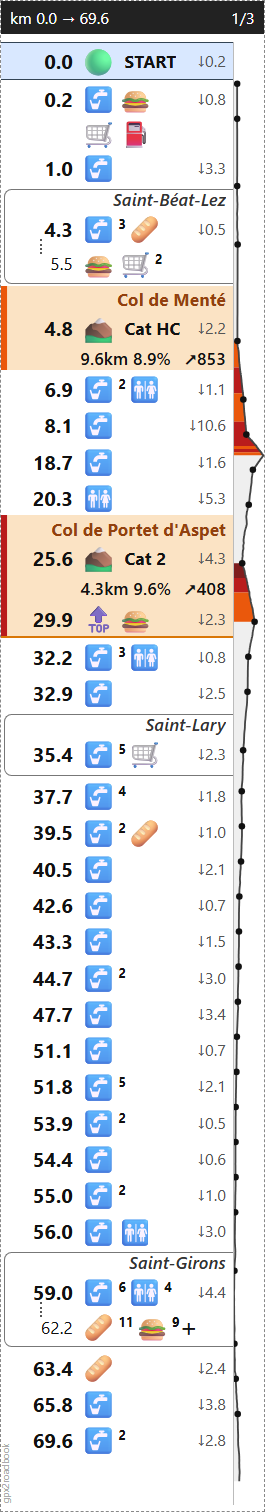
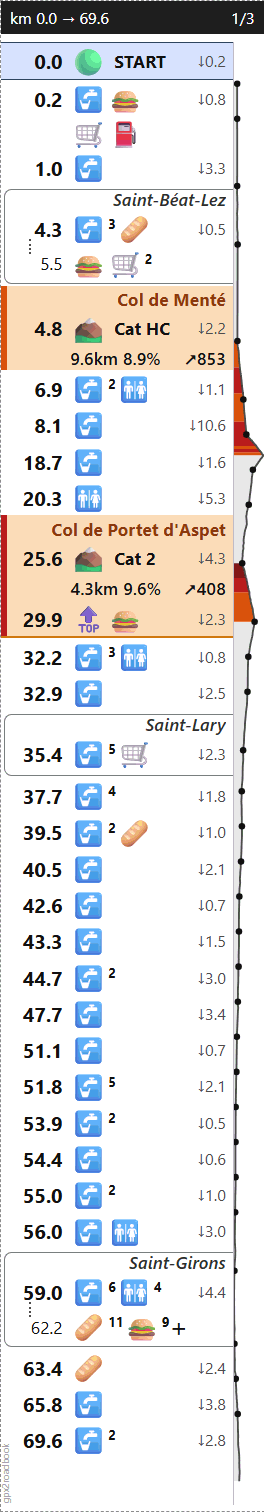
feat(render): fit the strips' km column to the route's longest km
The km column was 9.5 mm whatever the route, room for "1234.5": on a route
under 1000 km, 2.7 mm stood blank left of every km. It is now the row's
padding and the route's longest km, right-aligned, no wider: 8.15 mm for
100-999 km, 6.55 mm under 100 km, 9.75 mm from 1000 km. The emojis get
what it gives back (1.35 mm a row on a 300 km route), so crowded stops show
more of theirs.

Closes #130

diff --git a/tests/test_pipeline.py b/tests/test_pipeline.py
@@ -15,7 +15,7 @@ from roadbook.model import Climb, Glyph, Item, Poi, Roadbook, Stop, Track
 from roadbook.pois import classify, cluster, emoji_counts
 from roadbook.profile import Profile, turning_points
 from roadbook.render import _find_browser, render_html
-from roadbook.render.strips import COUNT_W, EMOJI_W, MAIN_H, SUB_H, RowLayout, _row, _wrap
+from roadbook.render.strips import COUNT_W, DIGIT_W, EMOJI_W, MAIN_H, SUB_H, RowLayout, _row, _wrap, km_col
 from roadbook.snap import Snapper
 
 SAMPLE = Path(__file__).parent.parent / "samples" / "paris_le_mans.gpx"
@@ -334,6 +334,29 @@ def test_gutter_follows_gutter_mm() -> None:
     assert html.count('<svg class="gutter"') == html.count('<div class="strip">') > 0
     cfg["render"]["gutter_mm"] = 0
     assert 'class="gutter"' not in render_html(book, Settings.of(cfg))
+
+
+def test_the_km_column_is_as_wide_as_the_route_s_longest_km() -> None:
+    assert km_col(306.2) - km_col(99.9) == pytest.approx(DIGIT_W)  # a digit more, a digit's width more
+    assert km_col(1234.5) - km_col(306.2) == pytest.approx(DIGIT_W)
+    assert km_col(999.96) == km_col(1000.0)  # as it is printed: "1000.0"
+    assert km_col(306.2) < 9.5  # the column every route had, whatever its length
+
+
+def _crowded(length_km: float) -> str:
+    """The emojis a crowded stop shows on the strip of a route `length_km` long, its "+" with them."""
+    cfg = load_config()
+    cfg["render"]["emoji_lines"] = 1
+    stop = Item("stop", 10.0, 0, emojis=[Glyph(e) for e in "🚰🚻🥖🍔🛒"], dist_to_next=1.0)
+    items = [Item("start", 0, 0, dist_to_next=10.0), stop, Item("finish", length_km, 0)]
+    html = render_html(Roadbook("t", length_km, 0, 0, items, [], [], 0, 0), Settings.of(cfg))
+    assert f"--km-col: {km_col(length_km)}mm" in html
+    return re.findall(r'<span class="emo">([^<]*)</span>', html)[1]
+
+
+def test_the_room_a_short_route_s_km_leave_goes_to_the_emojis() -> None:
+    assert _crowded(50.0) == "🚰🚻🥖+"
+    assert _crowded(1500.0) == "🚰🚻+"
 
 
 @pytest.mark.parametrize(

diff --git a/src/roadbook/render/strips.py b/src/roadbook/render/strips.py
@@ -17,7 +17,10 @@ if TYPE_CHECKING:
 
 # Row geometry (mm). Must match the CSS variables in the template.
 MAIN_H, SUB_H, HDR_H, PAD, EMO_H = 4.8, 3.2, 4.4, 1.0, 4.4
-KM_COL, EMOJI_W, COUNT_W, MORE_W = 9.5, 4.9, 1.3, 2.0
+EMOJI_W, COUNT_W, MORE_W = 4.9, 1.3, 2.0
+# a row's km, 7.5 pt bold with tabular figures: a digit's width and the point's, on the wide side (Segoe UI draws
+# them 1.53 and 0.68 mm), for the km column to be no wider than the route's longest km needs
+DIGIT_W, POINT_W = 1.6, 0.75
 LAYOUT_WIDTH = {"strip": 35.0, "line": 16.0}
 WHOLE_KM = 10.0  # a climb this long shows its length in whole km ("21km"): the decimal is noise
 DIST_W = 6.0  # an inline "↓10.6" distance to the next row, at the end of the main line
@@ -246,14 +249,21 @@ class Geometry:
     """The row geometry the template's CSS variables take, mm."""
 
     gutter: float  # the profile's width, 0 without one
+    km_col: float  # the km column, its left padding included: see km_col()
     main_h: float = MAIN_H
     head_h: float = HEAD_H
     frame_pad: float = FRAME_PAD
     sub_h: float = SUB_H
     hdr_h: float = HDR_H
-    km_col: float = KM_COL
     pad: float = PAD
     emo_h: float = EMO_H
+
+
+def km_col(length_km: float) -> float:
+    """The km column of a route this long, mm: the row's padding, then its longest km, right-aligned, and no blank
+    left of it: a 300 km route's "299.9" leaves its rows a digit more room than a 1200 km one's "1199.9"."""
+    digits = len(f"{length_km:.1f}") - 1
+    return round(PAD + digits * DIGIT_W + POINT_W, 2)
 
 
 def _gutters(

diff --git a/src/roadbook/render/__init__.py b/src/roadbook/render/__init__.py
@@ -27,7 +27,6 @@ from .sheet import _details, credit, eta_text, grade_key, poi_category, pretty_h
 from .strips import (
     DIST_W,
     HDR_H,
-    KM_COL,
     LAYOUT_WIDTH,
     PAD,
     Geometry,
@@ -38,6 +37,7 @@ from .strips import (
     _gutters,
     _paginate,
     _row,
+    km_col,
 )
 
 if TYPE_CHECKING:
@@ -101,7 +101,8 @@ def render_html(book: Roadbook, settings: Settings) -> str:
 
     # strip: what is left of the row once the km column is taken.
     # line: tokens may grow; cap so a single stop can't eat the whole ribbon.
-    avail = width - KM_COL - 3 * PAD if layout == "strip" else 40.0
+    col = km_col(book.length_km)
+    avail = width - col - 3 * PAD if layout == "strip" else 40.0
     gutter = r.gutter_mm if layout == "strip" and book.profile is not None else 0
     avail -= gutter
     if layout == "strip":  # the ↓ distance to the next row takes the end of the main line
@@ -173,7 +174,7 @@ def render_html(book: Roadbook, settings: Settings) -> str:
         tool=TOOL,
         version=version(TOOL),
         home=HOME,
-        g=Geometry(gutter),
+        g=Geometry(gutter, col),
     )
 
 
